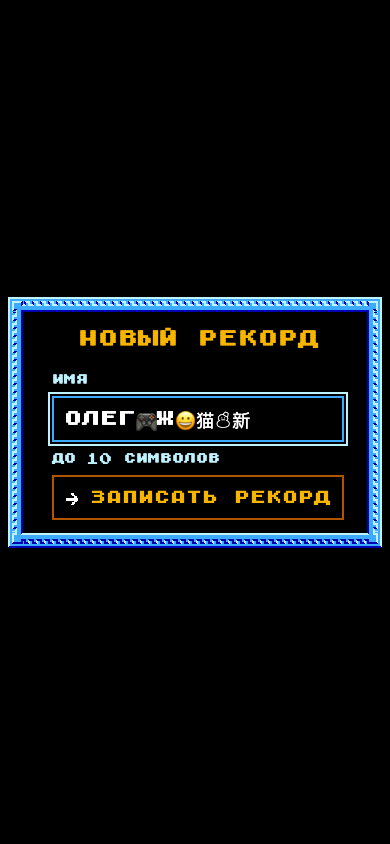
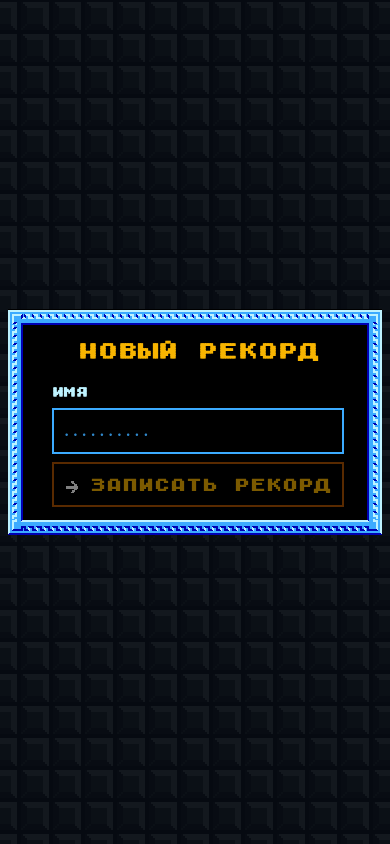
Add the dark cartridge backdrop and shorten the wait for records

diff --git a/compositor.js b/compositor.js
@@ -65,7 +65,7 @@ export class Compositor {
     this.canvas = canvas;
     this.resultBar = resultBar;
     this.game = canvas.closest('#game');
-    this.ctx = canvas.getContext('2d', { alpha: false });
+    this.ctx = canvas.getContext('2d');
     this.source = document.createElement('canvas');
     this.source.width = SRC_WIDTH;
     this.source.height = 272;
@@ -229,6 +229,8 @@ export class Compositor {
   well(left, top, k) {
     const x = left + 4 * k, y = top + 4 * k;
     this.wellRect = [round(left), round(top), round(WELL_W * k), round(WELL_H * k)];
+    this.ctx.fillStyle = '#000';
+    this.ctx.fillRect(...this.wellRect);
     if (this.frame.naturalWidth) this.ctx.drawImage(this.frame, ...this.wellRect);
     if (this.scene === 'dance') {
       this.dance(x, y, k);
@@ -275,16 +277,17 @@ export class Compositor {
     }
   }
 
-  sideHUD(x, top, width, height, keys, anchored = false) {
+  sideHUD(x, top, width, height, keys, framed = false) {
     if (this.scene === 'dance') keys = keys.filter(key => key !== 'next');
     const cx = x + width / 2;
     const slots = keys.map(key => key === 'next' || key === 'stats' ? 38 : 25);
     const slotTotal = slots.reduce((a, b) => a + b, 0);
     const gaps = keys.length - 1;
     const scale = Math.min(width / 50, height / (slotTotal + 6 * gaps), 2);
-    const gap = gaps ? Math.min((anchored ? 12 : 24) * scale, (height - slotTotal * scale) / gaps) : 0;
+    const gap = gaps ? Math.min((framed ? 12 : 24) * scale, (height - slotTotal * scale) / gaps) : 0;
     const total = slotTotal * scale + gap * gaps;
-    let y = top + (anchored ? 0 : Math.max(0, (height - total) / 2));
+    let y = top + (framed ? 0 : Math.max(0, (height - total) / 2));
+    if (framed) this.hudPanel(x - 3, y - 4, width + 6, total + 8);
     keys.forEach((key, i) => {
       const slot = slots[i] * scale;
       if (key === 'stats') this.stats(cx, y, width, slot, scale);
@@ -317,12 +320,26 @@ export class Compositor {
     for (let i = 0; i < 15; i++) this.fit([56, 96 + 8 * i, 144, 8], cx, first + 10 * i * k, k);
   }
 
+  hudPanel(x, y, w, h) {
+    x = round(x);
+    y = round(y);
+    w = round(w);
+    h = round(h);
+    if (w < 3 || h < 3) return;
+    this.ctx.fillStyle = '#27374b';
+    this.ctx.fillRect(x, y, w, h);
+    this.ctx.fillStyle = '#000';
+    this.ctx.fillRect(x + 1, y + 1, w - 2, h - 2);
+  }
+
   portrait(w, h) {
     const pad = Math.min(7, Math.max(3, w * .012));
     const headerWidth = Math.min(w - PAUSE_CORNER - pad, 624);
     const scale = Math.min(2.05, w / 260, h / 320);
     const headers = this.scene === 'dance' ? [['score', .45], ['high', .55]] :
       [['next', .24], ['score', .34], ['high', .42]];
+    const fieldTop = round(pad + 30 * scale + 6);
+    this.hudPanel(2, 2, headerWidth + pad - 3, fieldTop - 4);
     let left = pad;
     for (const [key, portion] of headers) {
       const slot = headerWidth * portion;
@@ -331,7 +348,6 @@ export class Compositor {
     }
 
     // Keep the same well through play, the bonus dance and game over.
-    const fieldTop = round(pad + 30 * scale + 6);
     const fieldWidth = w - this.dropWidth;
     const fieldBottom = h - this.controlsHeight;
     const k = Math.min((fieldWidth - 2 * pad) / WELL_W, (fieldBottom - fieldTop) / WELL_H);
@@ -339,10 +355,11 @@ export class Compositor {
 
     // Stack the native line count, level and unlabeled piece chart above drop.
     const railTop = Math.max(fieldTop, PAUSE_CORNER) + pad;
-    const railBottom = h * this.dropTop - 2 * pad;
-    const railHeight = railBottom - railTop;
     const railWidth = this.dropWidth - 2 * pad;
+    const railBottom = Math.min(h * this.dropTop - 2 * pad, railTop + railWidth * 2.7);
+    const railHeight = railBottom - railTop;
     const railCenter = w - this.dropWidth / 2;
+    this.hudPanel(railCenter - this.dropWidth / 2 + 2, railTop - 5, this.dropWidth - 4, railHeight + 10);
     const railScale = Math.min(scale, railWidth / 50, railHeight / 105);
     this.metric('lines', railCenter, railTop, railWidth, railScale);
     this.metric('level', railCenter, railTop + 31 * railScale, railWidth, railScale);
@@ -370,18 +387,24 @@ export class Compositor {
     // horizontal position. End the rail above that glyph's upper edge.
     const nearDrop = rightX + rightW > w * .875 - 18;
     const rightBottom = nearDrop && this.scene !== 'dance' ? Math.min(bottom, h * .60 - 18) : bottom;
-    this.sideHUD(left - gap - side, y, side, Math.max(48, bottom - y), ['score', 'lines', 'level'], true);
-    this.sideHUD(rightX, rightY, rightW, Math.max(48, rightBottom - rightY), ['next', 'high', 'stats'], true);
+    const leftX = left - gap - side;
+    const leftHeight = Math.max(48, bottom - y);
+    const rightHeight = Math.max(48, rightBottom - rightY);
+    this.sideHUD(leftX, y, side, leftHeight, ['score', 'lines', 'level'], true);
+    this.sideHUD(rightX, rightY, rightW, rightHeight, ['next', 'high', 'stats'], true);
   }
 
   paint() {
     if (!this.nes) return;
     const w = this.canvas.width, h = this.canvas.height;
     if (w < 2 || h < 2) return;
-    this.ctx.fillStyle = '#000';
-    this.ctx.fillRect(0, 0, w, h);
+    this.ctx.clearRect(0, 0, w, h);
     if (this.scene === 'scores') {
-      if (!this.resultBar.hidden) this.scores(w, this.resultBar.offsetTop - 14);
+      if (!this.resultBar.hidden) {
+        const available = this.resultBar.offsetTop - 14;
+        this.hudPanel(3, 3, w - 6, available);
+        this.scores(w, available);
+      }
       return;
     }
     if (!GAME.has(this.scene)) {

diff --git a/style.css b/style.css
@@ -28,7 +28,7 @@
 }
 [hidden] { display: none !important; }
 html, body {
-  margin: 0; width: 100%; height: 100%; overflow: hidden; background: #000;
+  margin: 0; width: 100%; height: 100%; overflow: hidden; background: #070c13;
   touch-action: pan-y; overscroll-behavior: none;
 }
 body { font: 16px/1.4 Cart, monospace; color: #fff; -webkit-tap-highlight-color: transparent; }
@@ -40,6 +40,11 @@ img { -webkit-user-drag: none; }
 img, canvas, .panel, .turn { image-rendering: pixelated; }
 :root[data-iphone], :root[data-iphone] body { height: var(--phone-app-height, 100%); }
 #machine { position: relative; height: 100%; height: var(--phone-app-height, 100dvh); }
+#machine::before {
+  content: ''; position: absolute; inset: var(--ui-safe-top) 0 0; pointer-events: none;
+  background: url("./assets/block.png") center top / 32px 32px repeat;
+  image-rendering: pixelated; filter: grayscale(1); opacity: .095;
+}
 #game, #overlay {
   position: absolute;
   inset: var(--ui-safe-top) var(--device-safe-right) var(--device-safe-bottom) var(--device-safe-left);
@@ -62,13 +67,23 @@ img, canvas, .panel, .turn { image-rendering: pixelated; }
   position: absolute; z-index: 2; bottom: var(--result-lift);
   width: min(calc(100% - 32px), 386px); left: 50%; transform: translateX(-50%);
 }
+#game-over-next {
+  position: absolute; z-index: 2; bottom: 6px; left: 50%; transform: translateX(-50%);
+  width: min(calc(100% - 28px), 320px); min-height: 44px;
+}
+@media (orientation: landscape) {
+  #game-over-next {
+    left: auto; right: 6px; transform: none; width: auto;
+    font-size: clamp(10px, 2vw, 16px); padding-inline: 8px;
+  }
+}
 #after-game { width: 100%; min-height: var(--result-height); border-color: var(--gold); font-size: clamp(18px, 4.5vw, 24px); }
 @media (orientation: landscape) {
   #game.scores { --result-lift: clamp(12px, 5dvh, 40px); --result-height: clamp(50px, 9dvh, 70px); }
 }
 #overlay {
   z-index: 4; display: grid; place-items: center; align-items: safe center; padding: 8px;
-  background: #000; overflow: auto; touch-action: pan-y;
+  overflow: auto; touch-action: pan-y;
 }
 #overlay.in-game { background: rgba(0,0,0,.79); }
 .panel {
@@ -158,12 +173,13 @@ h1 { color: var(--gold); font: inherit; font-size: 20px; margin: 0 0 12px; text-
 .record-name-slot { display: block; width: 100%; }
 .record-name-slot bdi { display: inline-block; }
 #record-form { display: grid; gap: 8px; }
-#record-form label, #record-name-hint { color: var(--ice); font-size: 12px; }
+#record-form label { color: var(--ice); font-size: 12px; }
 #record-input {
   width: 100%; min-width: 0; min-height: 46px; padding: 8px 10px; border: 2px solid var(--sky);
   border-radius: 0; background: #000; color: #fff; font: 18px/1.3 Cart, system-ui, sans-serif;
   -webkit-user-select: text; user-select: text; -webkit-touch-callout: default;
 }
+#record-input::placeholder { color: var(--sky); letter-spacing: .22em; opacity: .8; }
 #record-input:focus { outline: 2px solid var(--ice); outline-offset: 2px; }
 #record-confirm-name { width: 100%; color: var(--ice); text-align: center; white-space: pre-wrap; overflow-wrap: anywhere; }
 #overlay[data-menu="records"] .panel { width: min(100%, 510px); }

diff --git a/app.js b/app.js
@@ -1,6 +1,6 @@
 import { Engine } from './engine.js';
 import { Compositor } from './compositor.js';
-import { readScene, createSoloStart, enteringInitials } from './cartridge.js';
+import { readScene, createSoloStart, enteringInitials, gameOverReady, endGameWait } from './cartridge.js';
 import { SHUFFLE, TRACKS } from './cartridge-audio.js';
 import { bindControls } from './controls.js';
 import { bindInstall } from './install.js';
@@ -16,6 +16,7 @@ const game = byId('game');
 const overlay = byId('overlay');
 const notice = byId('notice');
 const afterGame = byId('after-game');
+const gameOverNext = byId('game-over-next');
 const resultBar = byId('result-bar');
 const recordInput = byId('record-input');
 const recordsTable = byId('records-table');
@@ -174,6 +175,7 @@ function enterRun(scene = 'play') {
   observedEnd = false;
   pendingRecord = null;
   afterGame.hidden = true;
+  gameOverNext.hidden = true;
   resultBar.hidden = true;
   game.classList.remove('scores');
   activeScene = scene;
@@ -459,6 +461,8 @@ function onFrame(buffer, nes, present = true) {
     home();
     return;
   }
+  const canAdvance = scene === 'gameover' && gameOverReady(nes);
+  if (gameOverNext.hidden === canAdvance) gameOverNext.hidden = !canAdvance;
   const showResults = scene === 'scores';
   if (resultBar.hidden === showResults) {
     resultBar.hidden = !showResults;
@@ -495,7 +499,7 @@ function localize() {
     '#sound': t.sound, '#audio-menu h1': t.sound, '#audio-back': t.back, '#after-game': t.playAgain,
     '#home-support': t.support,
     '#record-edit-title': t.newRecord, '#record-label': t.recordName,
-    '#record-name-hint': t.recordNameHint, '#record-submit': t.saveRecord,
+    '#record-submit': t.saveRecord, '#game-over-next': t.showResults,
     '#record-confirm-title': t.saveRecordPrompt, '#record-confirm-yes': t.yes, '#record-confirm-no': t.no,
     '#records-replay': t.playAgain,
     '#records': t.records, '#records-menu h1': t.records, '#records-back': t.back,
@@ -645,8 +649,14 @@ function tapCartridge(button) {
   setInput('tap-' + button, button, true);
   setInput('tap-' + button, button, false);
 }
+function advanceGameOver() {
+  if (view === 'game') endGameWait(engine.nes);
+}
+gameOverNext.onclick = advanceGameOver;
 byId('screen').addEventListener('click', () => {
-  if (view === 'game' && activeScene === 'dance') tapCartridge('a');
+  if (view !== 'game') return;
+  if (activeScene === 'dance') tapCartridge('a');
+  if (activeScene === 'gameover') advanceGameOver();
 });
 
 for (const type of ['contextmenu', 'selectstart', 'dragstart', 'dblclick', 'gesturestart', 'gesturechange']) {
@@ -664,7 +674,10 @@ window.addEventListener('keydown', event => {
   const code = event.code;
   if (event.isTrusted) unlockMenuMusic();
   if (view === 'game') {
-    if (bindings[code]) {
+    if (activeScene === 'gameover' && (code === 'Enter' || code === 'Space')) {
+      event.preventDefault();
+      if (!event.repeat) advanceGameOver();
+    } else if (bindings[code]) {
       event.preventDefault();
       setInput(code, bindings[code], true);
     } else if (['Escape','KeyP','Space','Enter'].includes(code)) {

diff --git a/sw.js b/sw.js
@@ -1,8 +1,8 @@
 // Run python3 tools/refresh-offline.py after modifying the game.
 // BEGIN GENERATED OFFLINE BUNDLE
-const BUILD = '6c56e9287bc137288a82';
+const BUILD = '92549892d976448583a9';
 const FILES = [
-  ["app.js", "sha256-b12gHq8N5Ffd48QylZ7y3q0Hh8Qp2WMtBwjmmyDlZRI="],
+  ["app.js", "sha256-2NMHdAOs2cxw8rojhxwgLTzmyHh5ClgUtYPFvBvFtZ0="],
   ["assets/arrow.png", "sha256-Xkt8bTzGyHK5hj+6p2X7RirhFsHgQqMSyP3W3DyHzBc="],
   ["assets/block.png", "sha256-bHHsaBDkKFKloGbXN9wtirolvFKFXAZTjCPYZu1GSO8="],
   ["assets/frame.png", "sha256-gG5M38iSOY1Ad2HuBi6nKUM4l7yWPpVfz+c/9nAzhiA="],
@@ -22,21 +22,21 @@ const FILES = [
   ["assets/well.png", "sha256-J4sDuw/Zrpe1+fgRJYiR7BzCmgj7L+V++oP0f1ZTNFA="],
   ["audio-output.js", "sha256-6InF/O0z1Tz8QZSYtWlElH31ZQXY1Q67/qX4SQJ9BZg="],
   ["cartridge-audio.js", "sha256-fmwOEki5fgDHS8VUNpV53FechuGuaxWA2Xwv95VURE4="],
-  ["cartridge.js", "sha256-GE4dL5S9G+aODLmrarnUWTpWqp0udFtzr55GTAVNw48="],
-  ["compositor.js", "sha256-6MHl8cxMStyfuGlDkFhTCiV0giLgzA6CF/cmkWEbJ+0="],
+  ["cartridge.js", "sha256-s/a7fSRw/gCPGGdIDpTDtHCm5K7R7Ce9BCoc0Cjbqgo="],
+  ["compositor.js", "sha256-ub9QhlErYbvYgLGjbueuJGLBqJVnhTwND+Ov6EDjg6U="],
   ["controls.css", "sha256-YPFYGJ4AsmBpkZZRctAKPEO7S1Gib7MfjvqglqLLTQQ="],
   ["controls.js", "sha256-XIWTtj5ItRHZGJpN9Vk9JdauSgCPU+mEWcWPn20Fvgw="],
   ["engine.js", "sha256-+FI2sSwXKsLuyW6A4CtYCsLZdxRuEMIJff2lfmY+JzM="],
   ["game-ru.nes", "sha256-M/BKw5U+fW092ICDzW+Q/93IBWg9IPqEB9jC2DWxHUY="],
   ["game.nes", "sha256-U5cKKyWBn5UUu38yp7Voo/S9vYdU2p57kUICDxq46mI="],
-  ["index.html", "sha256-Y/V/IvrsI3HhrGYCN+mH2kpp5xJjs3MqECx7APJQu20="],
+  ["index.html", "sha256-3AIR8oSdY3QgFFK8yqsdAy6zlr7A5PB5oBAizqR8rS4="],
   ["install.css", "sha256-Yrz9MBVuaVKoaGPN1CPgEjUy7pRSI9faEDBX8L1+Tdw="],
   ["install.js", "sha256-J9KYgYcCprIjMvus33Jrvg+weUDTbOQC3s760UF6YV8="],
-  ["locale.js", "sha256-HV4hf7keLtj+Y1hCIsUTptSdhuK3k0QOMFHEl+R/Ac4="],
+  ["locale.js", "sha256-V9nZnGkpwT0PEq7r9e4PuuzGG1q7SpZn4htPENP4bSQ="],
   ["manifest.webmanifest", "sha256-5nKMTk9rEvbDWQ9HW7FOAbX+V8rNu/1zMXftY1ooG3Y="],
   ["rankings.js", "sha256-UX+aRLk201j0Q0IazchA4NlJfkpwUvP4Zkbd7isVZn8="],
   ["saved-run.js", "sha256-tst1iw17LOmAuhKQ3lhtKGEC7n4upmP9Ba+vGw0/YxM="],
-  ["style.css", "sha256-d+Z2Bag++FqmbrEvC4fFhhs0UPqt6l4KoLkT9b/HTlY="],
+  ["style.css", "sha256-TcI8gVpQX1GtLqndb+QfTf/t/ENCpYHt5SNT8qcM3hU="],
   ["vendor/jsnes.js", "sha256-uIpOhApFnEU+rBKvQIrwLSzTCYdZfLlWyfLQ5pRXMPs="],
   ["viewport.js", "sha256-WbUSmMQWKacnoOhK9aqRfJ7L9GV99teYxVt1SoHpRow="]
 ];

diff --git a/locale.js b/locale.js
@@ -5,7 +5,7 @@ export const translations = {
     play: 'PLAY', continueRun: 'CONTINUE', resumePrompt: 'CONTINUE GAME?', replacePrompt: 'START A NEW GAME?',
     replaceNote: 'Starting a new game will replace this saved game.', yes: 'YES', no: 'NO', setup: 'NEW GAME', start: 'START', back: 'BACK',
     newRecord: 'NEW RECORD', saveRecord: 'SAVE RECORD', saveRecordPrompt: 'SAVE RECORD?',
-    recordNameHint: 'UP TO 10 CHARACTERS',
+    showResults: 'VIEW RECORDS',
     records: 'RECORDS', emptyRecords: 'NO RECORDS YET', recordName: 'NAME', recordScore: 'SCORE', recordLines: 'LINES',
     pause: 'PAUSE', resume: 'RESUME', sound: 'SOUND', restart: 'RESTART',
     mainMenu: 'MAIN MENU', playAgain: 'PLAY AGAIN',
@@ -23,7 +23,7 @@ export const translations = {
     play: 'ИГРАТЬ', continueRun: 'ПРОДОЛЖИТЬ', resumePrompt: 'ПРОДОЛЖИТЬ ИГРУ?', replacePrompt: 'НАЧАТЬ НОВУЮ ИГРУ?',
     replaceNote: 'Когда вы начнёте новую игру, она заменит эту сохранённую партию.', yes: 'ДА', no: 'НЕТ', setup: 'НОВАЯ ИГРА', start: 'СТАРТ', back: 'НАЗАД',
     newRecord: 'НОВЫЙ РЕКОРД', saveRecord: 'ЗАПИСАТЬ РЕКОРД', saveRecordPrompt: 'ЗАПИСАТЬ РЕКОРД?',
-    recordNameHint: 'ДО 10 СИМВОЛОВ',
+    showResults: 'К РЕКОРДАМ',
     records: 'РЕКОРДЫ', emptyRecords: 'ПОКА НЕТ РЕКОРДОВ', recordName: 'ИМЯ', recordScore: 'СЧЁТ', recordLines: 'ЛИНИИ',
     pause: 'ПАУЗА', resume: 'ПРОДОЛЖИТЬ', sound: 'ЗВУК', restart: 'ЗАНОВО',
     mainMenu: 'ГЛАВНОЕ МЕНЮ', playAgain: 'ИГРАТЬ СНОВА',

diff --git a/index.html b/index.html
@@ -20,6 +20,7 @@
   <main id="machine" aria-label="Tengen Tetris">
     <section id="game" aria-label="Game" hidden>
       <div id="screen"><canvas id="picture" aria-label="Tetris playfield and statistics"></canvas></div>
+      <button class="action primary" id="game-over-next" hidden>RECORDS</button>
       <div id="result-bar" hidden>
         <button id="after-game" class="action primary" hidden>PLAY AGAIN</button>
       </div>
@@ -69,9 +70,8 @@
           <h1 id="record-edit-title" tabindex="-1">NEW RECORD</h1>
           <form id="record-form">
             <label for="record-input" id="record-label">NAME</label>
-            <input id="record-input" type="text" dir="auto" aria-describedby="record-name-hint"
+            <input id="record-input" type="text" dir="auto" placeholder="··········"
                    autocomplete="off" spellcheck="false" enterkeyhint="done" required>
-            <small id="record-name-hint">UP TO 10 CHARACTERS</small>
             <button class="action primary" id="record-submit" disabled>SAVE RECORD</button>
           </form>
         </div>

diff --git a/cartridge.js b/cartridge.js
@@ -25,6 +25,23 @@ export function enteringInitials(nes) {
   return readScene(nes) === 'scores' && nes.cpu.mem[0x74] !== 0;
 }
 
+export function gameOverReady(nes) {
+  if (readScene(nes) !== 'gameover') return false;
+  const ram = nes.cpu.mem;
+  // The score jingle ends around tick 173. Allow the buffered audio tail to
+  // drain before enabling the button, even on a slower display.
+  if (ram[0x6a] > 168) return false;
+  for (let i = 0; i < 11; i++) {
+    if (ram[0x020e + i] === 5 && ram[0x0292 + i]) return false;
+  }
+  return true;
+}
+
+export function endGameWait(nes) {
+  // Let the cartridge run its own Game Over to ranking transition.
+  if (gameOverReady(nes)) nes.cpu.mem[0x6a] = 1;
+}
+
 const START = 3, UP = 4, DOWN = 5;
 const menuSizes = { mode: 5, level: 10, handicap: 5, music: 5 };
 const cursorAddress = { mode: 0x4f0, level: 0x4f1, handicap: 0x4f3, music: 0x4f5 };
